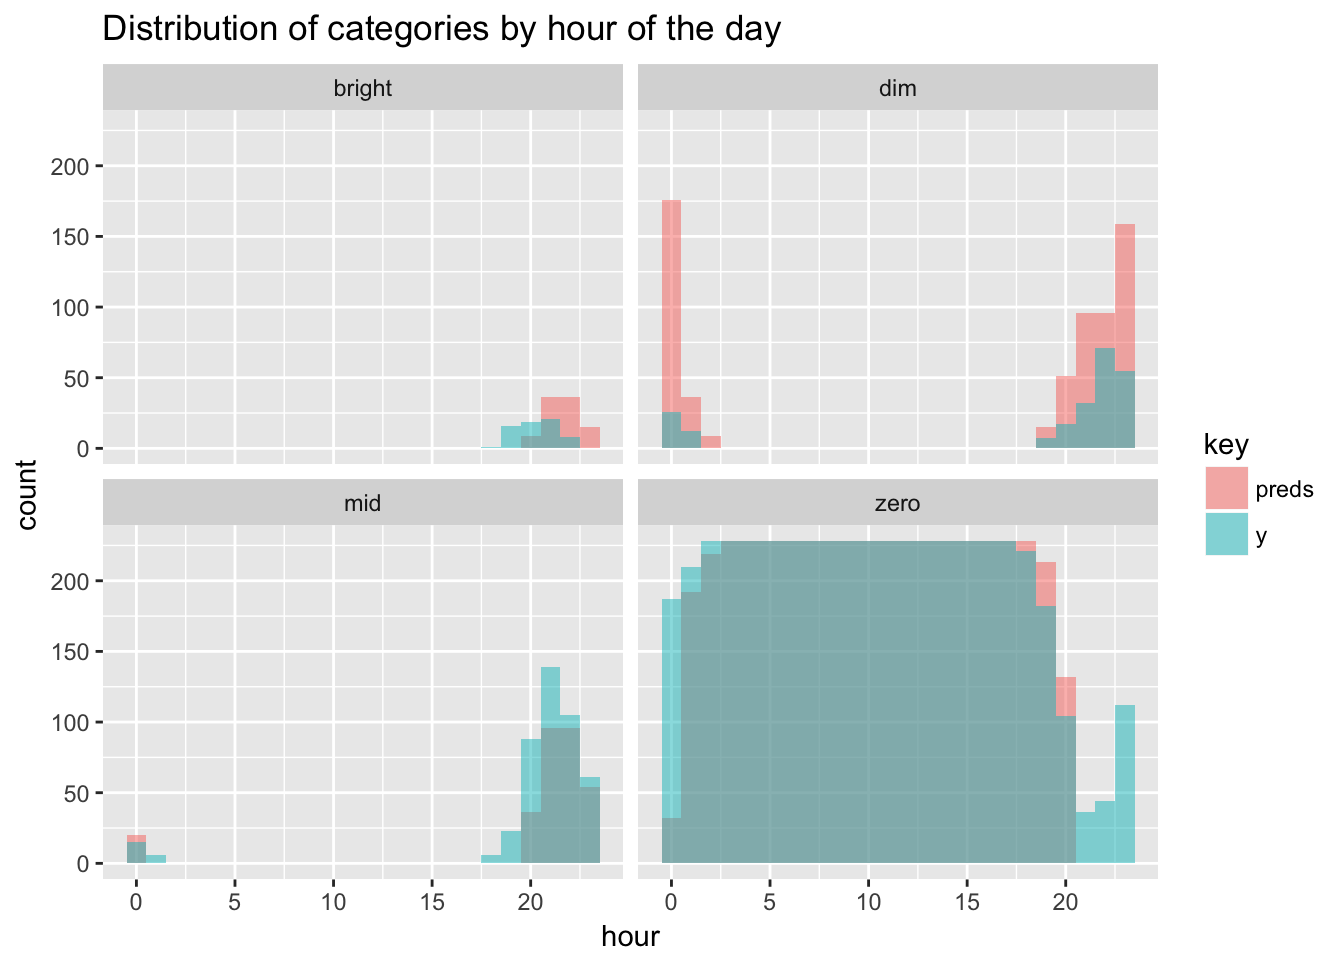
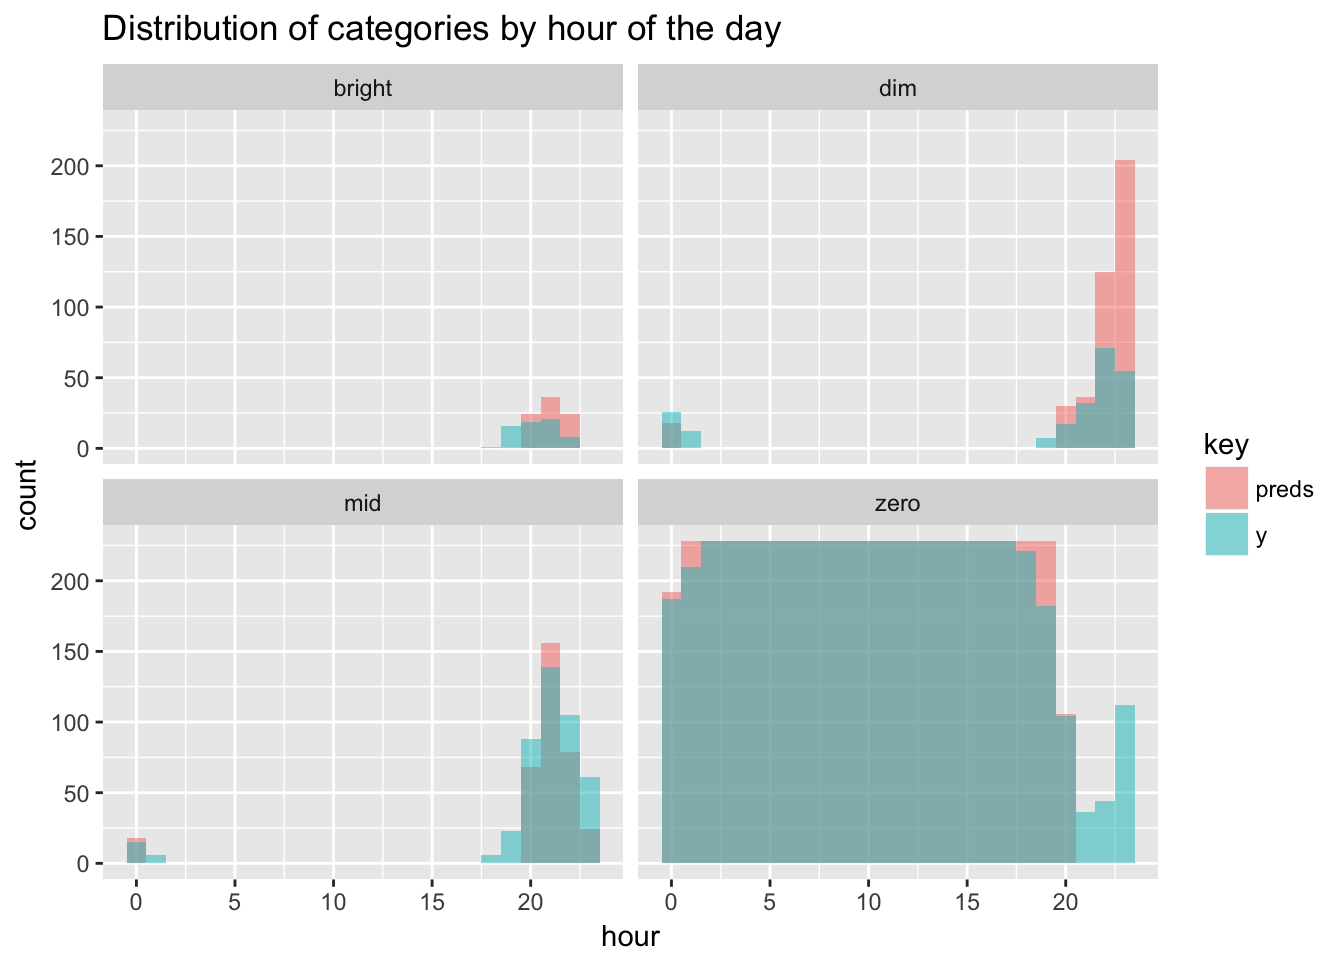
conf matrix gone

diff --git a/blog/interpretable-gdpr-classifiers/index.html b/blog/interpretable-gdpr-classifiers/index.html
@@ -44,10 +44,10 @@
 
 
     
-    <link rel="stylesheet" href="../../css/reset.css?t=1529436298">
-    <link rel="stylesheet" href="../../css/main.css?t=1529436298">
+    <link rel="stylesheet" href="../../css/reset.css?t=1529437304">
+    <link rel="stylesheet" href="../../css/main.css?t=1529437304">
     
-        <link rel="stylesheet" href="../../css/override.css?t=1529436298">
+        <link rel="stylesheet" href="../../css/override.css?t=1529437304">
     
 
 
@@ -275,11 +275,7 @@ svm_fit &lt;- train(x = x_train, y = y_train,
                  method=&quot;svmLinear&quot;, trControl = ctrl)
 gbm_fit &lt;- train(x = x_train, y = y_train, 
                  method=&quot;gbm&quot;, trControl = ctrl)</code></pre>
-<p>Generating predictions for the validation set, the confusion matrices look as follow.</p>
-<div class="figure">
-<img src="https://github.com/mtoto/mtoto.github.io/raw/master/data/2018-06-19-gdpr/confs2.png" />
-
-</div>
+<p>Generating predictions for the validation set, let’s plot the performance for the three models:</p>
 <p><img src="../../blog/2018/2018-07-19_gdpr_files/figure-html/accuracy%20n%20sensitity-1.png" width="672" /></p>
 <p>Gbm has the highest accuracy by a inch with around 96%, while svm slightly outperforms the rest with 82% for sensitivity, meaning that 82% of GDPR policies are classified correctly. We are of course most interested what words are differentiating the two classes of policies. We can retrieve measures for variable importance for both the glm as well the gbm models out of the box. For glm we can use <code>varImp(glm_fit)</code> that returns an <strong>importance percentage</strong> for each variable that’s based on the size of the models <strong>coefficients</strong>. For gbm we can access the <strong>relative influence</strong> of each variable using <code>summary(gbm_fit)</code>. Relative influence depicts the average empirical improvement of splitting by a variable across all trees generated.</p>
 <p><img src="../../blog/2018/2018-07-19_gdpr_files/figure-html/unnamed-chunk-7-1.png" width="672" /></p>

diff --git a/blog/self-learning-hue-lights/index.html b/blog/self-learning-hue-lights/index.html
@@ -44,10 +44,10 @@
 
 
     
-    <link rel="stylesheet" href="../../css/reset.css?t=1529436298">
-    <link rel="stylesheet" href="../../css/main.css?t=1529436298">
+    <link rel="stylesheet" href="../../css/reset.css?t=1529437304">
+    <link rel="stylesheet" href="../../css/main.css?t=1529437304">
     
-        <link rel="stylesheet" href="../../css/override.css?t=1529436298">
+        <link rel="stylesheet" href="../../css/override.css?t=1529437304">
     
 
 
@@ -277,10 +277,10 @@ gbmFit &lt;- train(y ~ ., data = training,
 table(preds, testing$y)</code></pre>
 <pre><code>##         
 ## preds     dim  mid bright zero
-##   dim      80  183     33  342
-##   mid      74  120      6  102
-##   bright   30   53      0   13
-##   zero     36   87     26 4287</code></pre>
+##   dim      75  149     11  178
+##   mid      70  151     28   96
+##   bright   19   53      0   12
+##   zero     56   90     26 4458</code></pre>
 <p>Most mistakes are made trying to classify bright and mid. The model gets 0 bright values right and only manages to do so correctly 14% of the time for mid. But when do errors happen? To dig a little deeper let’s look at the previous histogram of categories by hour again for the test set, but now with the predictions overlaid on top.</p>
 <p><img src="../../blog/2017/2017-05-14-hue_files/figure-html/unnamed-chunk-11-1.png" width="672" /></p>
 <p>Bright values were always going be hard to guess, but the model at least comes close in terms of hours, but off on the exact days. The majority of misclassification comes from overzealously predicting dim in the evening and around midnight, when it should really be either mid or zero. That looks like a workable scenario for me.</p>

diff --git a/blog/a-tidy-text-analysis-of-rick-and-morty/index.html b/blog/a-tidy-text-analysis-of-rick-and-morty/index.html
@@ -44,10 +44,10 @@
 
 
     
-    <link rel="stylesheet" href="../../css/reset.css?t=1529436298">
-    <link rel="stylesheet" href="../../css/main.css?t=1529436298">
+    <link rel="stylesheet" href="../../css/reset.css?t=1529437304">
+    <link rel="stylesheet" href="../../css/main.css?t=1529437304">
     
-        <link rel="stylesheet" href="../../css/override.css?t=1529436298">
+        <link rel="stylesheet" href="../../css/override.css?t=1529437304">
     
 
 
@@ -231,9 +231,9 @@ bigram_graph &lt;- df %&gt;%
 <pre><code>## Warning in graph_from_data_frame(.): In `d&#39; `NA&#39; elements were replaced
 ## with string &quot;NA&quot;</code></pre>
 <pre class="r"><code>print(bigram_graph)</code></pre>
-<pre><code>## IGRAPH 72a84d6 DN-- 311 283 -- 
+<pre><code>## IGRAPH 674eda1 DN-- 311 283 -- 
 ## + attr: name (v/c), season (e/c), n (e/n)
-## + edges from 72a84d6 (vertex names):
+## + edges from 674eda1 (vertex names):
 ## [1] NA      -&gt;NA      NA      -&gt;NA      NA      -&gt;NA      tiny    -&gt;rick   
 ## [5] yeah    -&gt;yeah   
 ##  [ reached getOption(&quot;max.print&quot;) -- omitted 21 entries ]

diff --git a/blog/an-animated-neural-net-implementation/index.html b/blog/an-animated-neural-net-implementation/index.html
@@ -44,10 +44,10 @@
 
 
     
-    <link rel="stylesheet" href="../../css/reset.css?t=1529436298">
-    <link rel="stylesheet" href="../../css/main.css?t=1529436298">
+    <link rel="stylesheet" href="../../css/reset.css?t=1529437304">
+    <link rel="stylesheet" href="../../css/main.css?t=1529437304">
     
-        <link rel="stylesheet" href="../../css/override.css?t=1529436298">
+        <link rel="stylesheet" href="../../css/override.css?t=1529437304">
     
 
 

diff --git a/blog/analyzing-my-spotify-listening-history/index.html b/blog/analyzing-my-spotify-listening-history/index.html
@@ -44,10 +44,10 @@
 
 
     
-    <link rel="stylesheet" href="../../css/reset.css?t=1529436298">
-    <link rel="stylesheet" href="../../css/main.css?t=1529436298">
+    <link rel="stylesheet" href="../../css/reset.css?t=1529437304">
+    <link rel="stylesheet" href="../../css/main.css?t=1529437304">
     
-        <link rel="stylesheet" href="../../css/override.css?t=1529436298">
+        <link rel="stylesheet" href="../../css/override.css?t=1529437304">
     
 
 

diff --git a/blog/creating-a-spotify-playlist-using-luigi/index.html b/blog/creating-a-spotify-playlist-using-luigi/index.html
@@ -44,10 +44,10 @@
 
 
     
-    <link rel="stylesheet" href="../../css/reset.css?t=1529436298">
-    <link rel="stylesheet" href="../../css/main.css?t=1529436298">
+    <link rel="stylesheet" href="../../css/reset.css?t=1529437304">
+    <link rel="stylesheet" href="../../css/main.css?t=1529437304">
     
-        <link rel="stylesheet" href="../../css/override.css?t=1529436298">
+        <link rel="stylesheet" href="../../css/override.css?t=1529437304">
     
 
 

diff --git a/blog/dockerized-shiny-app-development/index.html b/blog/dockerized-shiny-app-development/index.html
@@ -44,10 +44,10 @@
 
 
     
-    <link rel="stylesheet" href="../../css/reset.css?t=1529436298">
-    <link rel="stylesheet" href="../../css/main.css?t=1529436298">
+    <link rel="stylesheet" href="../../css/reset.css?t=1529437304">
+    <link rel="stylesheet" href="../../css/main.css?t=1529437304">
     
-        <link rel="stylesheet" href="../../css/override.css?t=1529436298">
+        <link rel="stylesheet" href="../../css/override.css?t=1529437304">
     
 
 

diff --git a/blog/starting-a-blogdown/index.html b/blog/starting-a-blogdown/index.html
@@ -44,10 +44,10 @@
 
 
     
-    <link rel="stylesheet" href="../../css/reset.css?t=1529436298">
-    <link rel="stylesheet" href="../../css/main.css?t=1529436298">
+    <link rel="stylesheet" href="../../css/reset.css?t=1529437304">
+    <link rel="stylesheet" href="../../css/main.css?t=1529437304">
     
-        <link rel="stylesheet" href="../../css/override.css?t=1529436298">
+        <link rel="stylesheet" href="../../css/override.css?t=1529437304">
     
 
 

diff --git a/categories/r/index.html b/categories/r/index.html
@@ -44,10 +44,10 @@
 
 
     
-    <link rel="stylesheet" href="../../css/reset.css?t=1529436298">
-    <link rel="stylesheet" href="../../css/main.css?t=1529436298">
+    <link rel="stylesheet" href="../../css/reset.css?t=1529437304">
+    <link rel="stylesheet" href="../../css/main.css?t=1529437304">
     
-        <link rel="stylesheet" href="../../css/override.css?t=1529436298">
+        <link rel="stylesheet" href="../../css/override.css?t=1529437304">
     
 
 

diff --git a/tags/ai/index.html b/tags/ai/index.html
@@ -44,10 +44,10 @@
 
 
     
-    <link rel="stylesheet" href="../../css/reset.css?t=1529436298">
-    <link rel="stylesheet" href="../../css/main.css?t=1529436298">
+    <link rel="stylesheet" href="../../css/reset.css?t=1529437304">
+    <link rel="stylesheet" href="../../css/main.css?t=1529437304">
     
-        <link rel="stylesheet" href="../../css/override.css?t=1529436298">
+        <link rel="stylesheet" href="../../css/override.css?t=1529437304">
     
 
 

diff --git a/tags/async/index.html b/tags/async/index.html
@@ -44,10 +44,10 @@
 
 
     
-    <link rel="stylesheet" href="../../css/reset.css?t=1529436298">
-    <link rel="stylesheet" href="../../css/main.css?t=1529436298">
+    <link rel="stylesheet" href="../../css/reset.css?t=1529437304">
+    <link rel="stylesheet" href="../../css/main.css?t=1529437304">
     
-        <link rel="stylesheet" href="../../css/override.css?t=1529436298">
+        <link rel="stylesheet" href="../../css/override.css?t=1529437304">
     
 
 

diff --git a/tags/blogdown/index.html b/tags/blogdown/index.html
@@ -44,10 +44,10 @@
 
 
     
-    <link rel="stylesheet" href="../../css/reset.css?t=1529436298">
-    <link rel="stylesheet" href="../../css/main.css?t=1529436298">
+    <link rel="stylesheet" href="../../css/reset.css?t=1529437304">
+    <link rel="stylesheet" href="../../css/main.css?t=1529437304">
     
-        <link rel="stylesheet" href="../../css/override.css?t=1529436298">
+        <link rel="stylesheet" href="../../css/override.css?t=1529437304">
     
 
 
